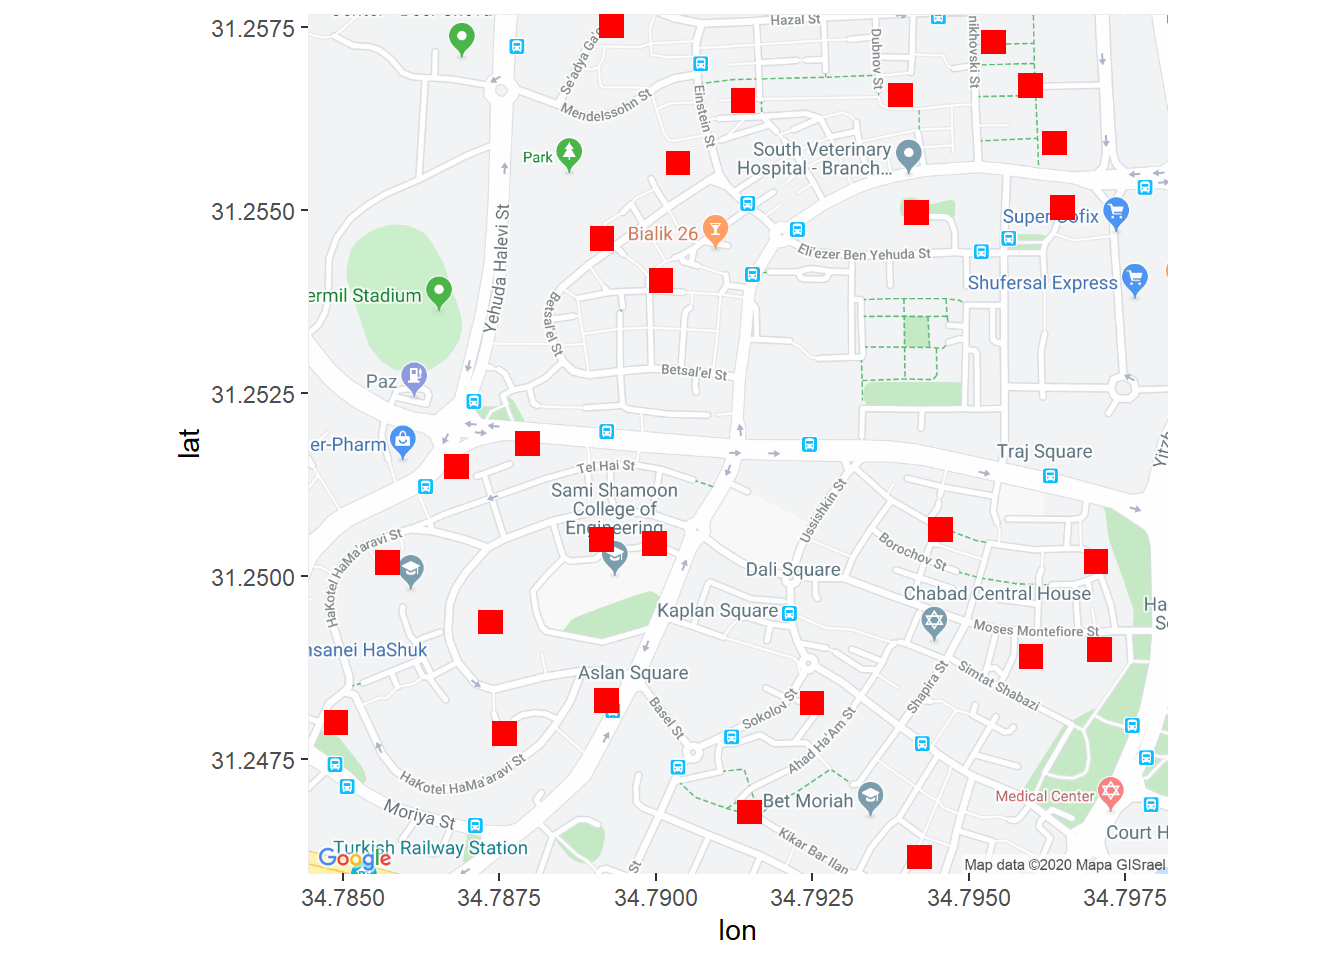
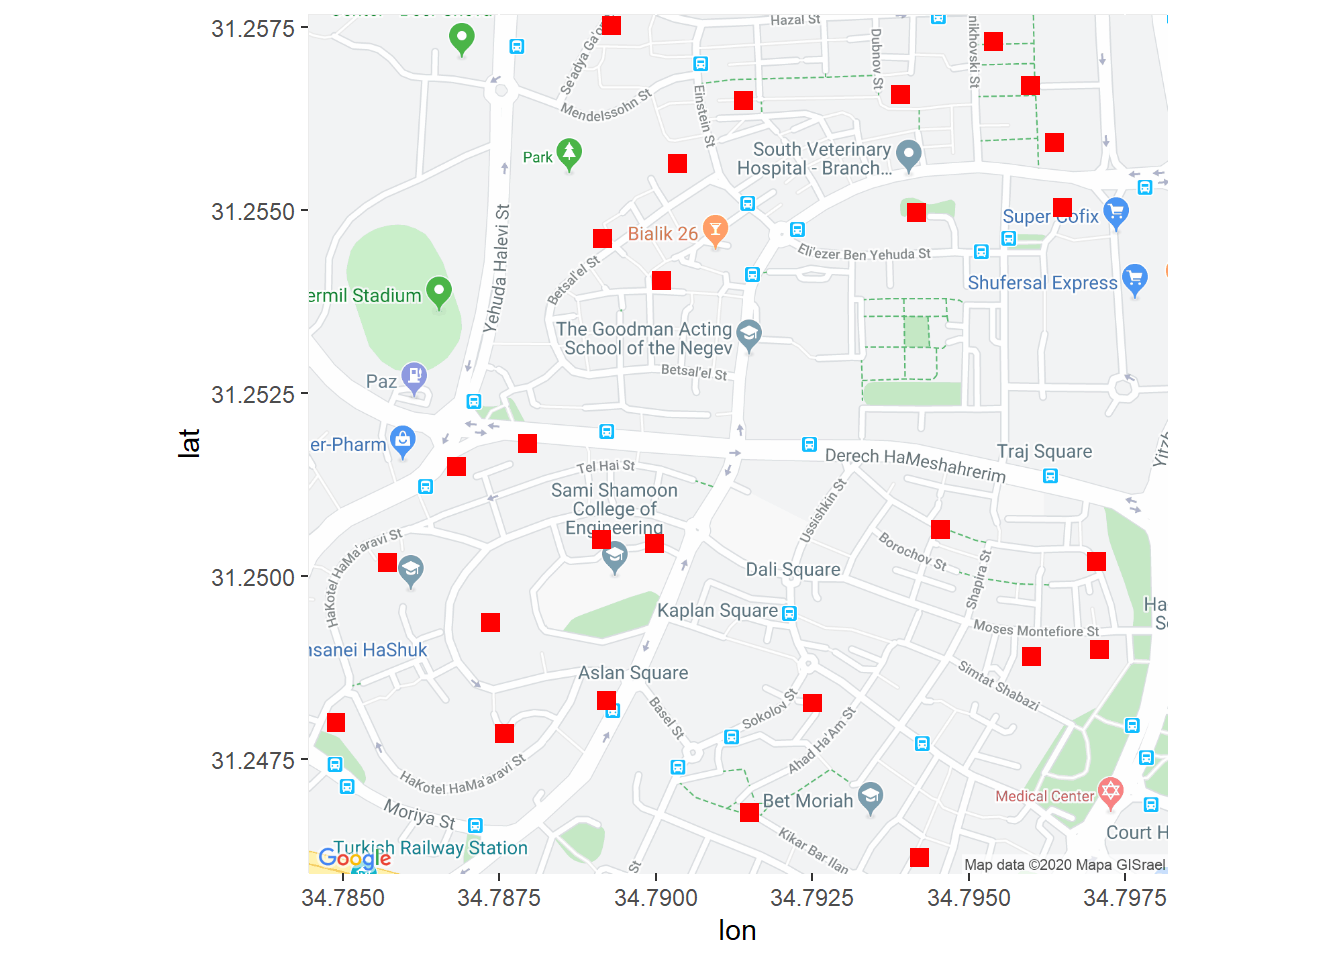
fix typo

diff --git a/public/2019/11/15/bomb-shelters/index.html b/public/2019/11/15/bomb-shelters/index.html
@@ -30,7 +30,7 @@
   
   <meta name="description" content="While rockets were fired towards Israel I decided to take the opportunity and plot Be’er-Sheva’s bomb shelters.
 For a while now I’ve been wanting to learn how to plot maps. Seeing data frames with longitude and latitude coordinates on various occasions on #Tidytuesday encouraged me to do so.
-A day before this piece, I discovered our municupality’s open access data website. In this website you can find various data sets like street light coordinates, bomb shelters spread out in the city and more.">
+A day before this visualizaiton, I discovered our municupality’s open access data website. In this website you can find various data sets like street light coordinates, bomb shelters spread out in the city and more.">
 
   
   <link rel="alternate" hreflang="en-us" href="/2019/11/15/bomb-shelters/">
@@ -271,7 +271,7 @@ A day before this piece, I discovered our municupality’s open access data webs
   <meta property="og:title" content="Mapping bomb shelters in Be&#39;er-Sheva, IL | Amit Levinson">
   <meta property="og:description" content="While rockets were fired towards Israel I decided to take the opportunity and plot Be’er-Sheva’s bomb shelters.
 For a while now I’ve been wanting to learn how to plot maps. Seeing data frames with longitude and latitude coordinates on various occasions on #Tidytuesday encouraged me to do so.
-A day before this piece, I discovered our municupality’s open access data website. In this website you can find various data sets like street light coordinates, bomb shelters spread out in the city and more."><meta property="og:image" content="/2019/11/15/bomb-shelters/featured.png">
+A day before this visualizaiton, I discovered our municupality’s open access data website. In this website you can find various data sets like street light coordinates, bomb shelters spread out in the city and more."><meta property="og:image" content="/2019/11/15/bomb-shelters/featured.png">
   <meta property="twitter:image" content="/2019/11/15/bomb-shelters/featured.png"><meta property="og:locale" content="en-us">
   
     
@@ -327,7 +327,7 @@ A day before this piece, I discovered our municupality’s open access data webs
       "url": "img//"
     }
   },
-  "description": "While rockets were fired towards Israel I decided to take the opportunity and plot Be’er-Sheva’s bomb shelters.\nFor a while now I’ve been wanting to learn how to plot maps. Seeing data frames with longitude and latitude coordinates on various occasions on #Tidytuesday encouraged me to do so.\nA day before this piece, I discovered our municupality’s open access data website. In this website you can find various data sets like street light coordinates, bomb shelters spread out in the city and more."
+  "description": "While rockets were fired towards Israel I decided to take the opportunity and plot Be’er-Sheva’s bomb shelters.\nFor a while now I’ve been wanting to learn how to plot maps. Seeing data frames with longitude and latitude coordinates on various occasions on #Tidytuesday encouraged me to do so.\nA day before this visualizaiton, I discovered our municupality’s open access data website. In this website you can find various data sets like street light coordinates, bomb shelters spread out in the city and more."
 }
 </script>
 
@@ -593,7 +593,7 @@ A day before this piece, I discovered our municupality’s open access data webs
 
 <p>While rockets were fired towards Israel I decided to take the opportunity and plot Be’er-Sheva’s bomb shelters.<br />
 For a while now I’ve been wanting to learn how to plot maps. Seeing data frames with longitude and latitude coordinates on various occasions on <a href="https://github.com/rfordatascience/tidytuesday">#Tidytuesday</a> encouraged me to do so.<br />
-A day before this piece, I discovered our municupality’s open access data <a href="https://www.beer-sheva.muni.il/OpenData/Pages/default.aspx">website</a>. In this website you can find various data sets like street light coordinates, bomb shelters spread out in the city and more. A day after discovering it Israel, the country I live in, was fired missiles at. I decided to take the opportunity and map some of the shelters around my house. You know, just in case.</p>
+A day before this visualizaiton, I discovered our municupality’s open access data <a href="https://www.beer-sheva.muni.il/OpenData/Pages/default.aspx">website</a>. In this website you can find various data sets like street light coordinates, bomb shelters spread out in the city and more. A day after discovering it Israel, the country I live in, was fired missiles at. I decided to take the opportunity and map some of the shelters around my house. You know, just in case.</p>
 <p>Let’s begin with the packages we’ll need:</p>
 <pre class="r"><code>#for data manipulation
 library(tidyverse)
@@ -606,7 +606,7 @@ library(sp)
 library(extrafont)</code></pre>
 <div id="loading-and-tidying-the-data" class="section level3">
 <h3>Loading and tidying the data</h3>
-<p>I initially tried using the <code>.csv</code> file they have on their webiste but I was having too much trouble with the Hebrew so I decided to try and work with the <code>geojsonio</code> package. I had no idea how to work with a <code>.geojson</code> file or frankly how to work with maps in general. To my save, i found this incredible blog by<a href="https://randomjohn.github.io/r-geojson-srt/">John Johnson</a> to help me transform a ‘geomjson’ file to a dataframe you can work with.</p>
+<p>I initially tried using the <code>.csv</code> file they have on their webiste but I was having too much trouble with the Hebrew so I decided to try and work with the <code>geojsonio</code> package. I had no idea how to work with a <code>.geojson</code> file or frankly how to work with maps in general. To my save, i found this incredible blog by <a href="https://randomjohn.github.io/r-geojson-srt/">John Johnson</a> to help me transform a ‘geomjson’ file to a dataframe you can work with.</p>
 <p>Let’s begin:</p>
 <pre class="r"><code>#read the .geojson file
 my_geojson &lt;- &quot;shelters.geojson&quot;
@@ -630,7 +630,7 @@ let’s look at the top 3 observations of our new data frame:</p>
 </div>
 <div id="retrieving-the-map" class="section level3">
 <h3>Retrieving the map</h3>
-<p>So we have our data frame with long and lat points, let’s get our map. I want a map the can be readable in terms of streets and roads, therefore I’ll give the <code>ggmap</code> package a try<a href="#fn1" class="footnote-ref" id="fnref1"><sup>1</sup></a>. Google requires you to register in order to recieve an API key to pull maps to plot. Unfortunately I won’t cover how to regiser in this blog but I’m sure you can find plenty of tutorials addressing it online.<br />
+<p>So we have our data frame with long and lat points, let’s get our map. I want a map that can be readable in terms of streets and roads, therefore I’ll give the <code>ggmap</code> package a try<a href="#fn1" class="footnote-ref" id="fnref1"><sup>1</sup></a>. Google requires you to register in order to recieve an API key to pull maps to plot. Unfortunately I won’t cover how to regiser in this blog but I’m sure you can find plenty of tutorials addressing it online.<br />
 Let’s get Be’er-Sheva’s map:</p>
 <pre class="r"><code>b7_map &lt;- get_map(location = c(34.7913 , 31.25181), 
               zoom = 13, scale = 2, maptype = &quot;roadmap&quot;)</code></pre>
@@ -651,7 +651,7 @@ b7_map_zoom &lt;- get_map(location = c(34.7913 , 31.25181),
 
 p &lt;- ggmap(b7_map_zoom)+
 geom_point(shelters, mapping = aes(long,lat), color = &quot;red&quot;,
-           size = 4, shape = 15)
+           size = 3, shape = 15)
 p</code></pre>
 <p><img src="/post/bomb-shelters/index_files/figure-html/unnamed-chunk-6-1.png" width="672" /></p>
 <p>Much nicer and clearer. Using the zoom option in <code>get_map</code> enables to center more on where I want. Great, this shows me some bomb shetlers I have around me in a time of need. Let’s add some fine tuning for our theme:</p>
@@ -680,7 +680,7 @@ p</code></pre>
 <div class="footnotes">
 <hr />
 <ol>
-<li id="fn1"><p>For a first map I decided to go with a static one, but an interactive one can definately be a 2.0 version of this blog. Hopefully we won’t need it.<a href="#fnref1" class="footnote-back">↩</a></p></li>
+<li id="fn1"><p>For a first map I decided to go with a static one, but an interactive one can defenitely be a 2.0 version of this blog. Hopefully we won’t need it.<a href="#fnref1" class="footnote-back">↩</a></p></li>
 </ol>
 </div>
 

diff --git a/content/post/bomb-shelters/index.html b/content/post/bomb-shelters/index.html
@@ -21,7 +21,7 @@ projects: []
 
 <p>While rockets were fired towards Israel I decided to take the opportunity and plot Be’er-Sheva’s bomb shelters.<br />
 For a while now I’ve been wanting to learn how to plot maps. Seeing data frames with longitude and latitude coordinates on various occasions on <a href="https://github.com/rfordatascience/tidytuesday">#Tidytuesday</a> encouraged me to do so.<br />
-A day before this piece, I discovered our municupality’s open access data <a href="https://www.beer-sheva.muni.il/OpenData/Pages/default.aspx">website</a>. In this website you can find various data sets like street light coordinates, bomb shelters spread out in the city and more. A day after discovering it Israel, the country I live in, was fired missiles at. I decided to take the opportunity and map some of the shelters around my house. You know, just in case.</p>
+A day before this visualizaiton, I discovered our municupality’s open access data <a href="https://www.beer-sheva.muni.il/OpenData/Pages/default.aspx">website</a>. In this website you can find various data sets like street light coordinates, bomb shelters spread out in the city and more. A day after discovering it Israel, the country I live in, was fired missiles at. I decided to take the opportunity and map some of the shelters around my house. You know, just in case.</p>
 <p>Let’s begin with the packages we’ll need:</p>
 <pre class="r"><code>#for data manipulation
 library(tidyverse)
@@ -34,7 +34,7 @@ library(sp)
 library(extrafont)</code></pre>
 <div id="loading-and-tidying-the-data" class="section level3">
 <h3>Loading and tidying the data</h3>
-<p>I initially tried using the <code>.csv</code> file they have on their webiste but I was having too much trouble with the Hebrew so I decided to try and work with the <code>geojsonio</code> package. I had no idea how to work with a <code>.geojson</code> file or frankly how to work with maps in general. To my save, i found this incredible blog by<a href="https://randomjohn.github.io/r-geojson-srt/">John Johnson</a> to help me transform a ‘geomjson’ file to a dataframe you can work with.</p>
+<p>I initially tried using the <code>.csv</code> file they have on their webiste but I was having too much trouble with the Hebrew so I decided to try and work with the <code>geojsonio</code> package. I had no idea how to work with a <code>.geojson</code> file or frankly how to work with maps in general. To my save, i found this incredible blog by <a href="https://randomjohn.github.io/r-geojson-srt/">John Johnson</a> to help me transform a ‘geomjson’ file to a dataframe you can work with.</p>
 <p>Let’s begin:</p>
 <pre class="r"><code>#read the .geojson file
 my_geojson &lt;- &quot;shelters.geojson&quot;
@@ -58,7 +58,7 @@ let’s look at the top 3 observations of our new data frame:</p>
 </div>
 <div id="retrieving-the-map" class="section level3">
 <h3>Retrieving the map</h3>
-<p>So we have our data frame with long and lat points, let’s get our map. I want a map the can be readable in terms of streets and roads, therefore I’ll give the <code>ggmap</code> package a try<a href="#fn1" class="footnote-ref" id="fnref1"><sup>1</sup></a>. Google requires you to register in order to recieve an API key to pull maps to plot. Unfortunately I won’t cover how to regiser in this blog but I’m sure you can find plenty of tutorials addressing it online.<br />
+<p>So we have our data frame with long and lat points, let’s get our map. I want a map that can be readable in terms of streets and roads, therefore I’ll give the <code>ggmap</code> package a try<a href="#fn1" class="footnote-ref" id="fnref1"><sup>1</sup></a>. Google requires you to register in order to recieve an API key to pull maps to plot. Unfortunately I won’t cover how to regiser in this blog but I’m sure you can find plenty of tutorials addressing it online.<br />
 Let’s get Be’er-Sheva’s map:</p>
 <pre class="r"><code>b7_map &lt;- get_map(location = c(34.7913 , 31.25181), 
               zoom = 13, scale = 2, maptype = &quot;roadmap&quot;)</code></pre>
@@ -79,7 +79,7 @@ b7_map_zoom &lt;- get_map(location = c(34.7913 , 31.25181),
 
 p &lt;- ggmap(b7_map_zoom)+
 geom_point(shelters, mapping = aes(long,lat), color = &quot;red&quot;,
-           size = 4, shape = 15)
+           size = 3, shape = 15)
 p</code></pre>
 <p><img src="/post/bomb-shelters/index_files/figure-html/unnamed-chunk-6-1.png" width="672" /></p>
 <p>Much nicer and clearer. Using the zoom option in <code>get_map</code> enables to center more on where I want. Great, this shows me some bomb shetlers I have around me in a time of need. Let’s add some fine tuning for our theme:</p>
@@ -106,6 +106,6 @@ p</code></pre>
 <div class="footnotes">
 <hr />
 <ol>
-<li id="fn1"><p>For a first map I decided to go with a static one, but an interactive one can definately be a 2.0 version of this blog. Hopefully we won’t need it.<a href="#fnref1" class="footnote-back">↩</a></p></li>
+<li id="fn1"><p>For a first map I decided to go with a static one, but an interactive one can defenitely be a 2.0 version of this blog. Hopefully we won’t need it.<a href="#fnref1" class="footnote-back">↩</a></p></li>
 </ol>
 </div>
